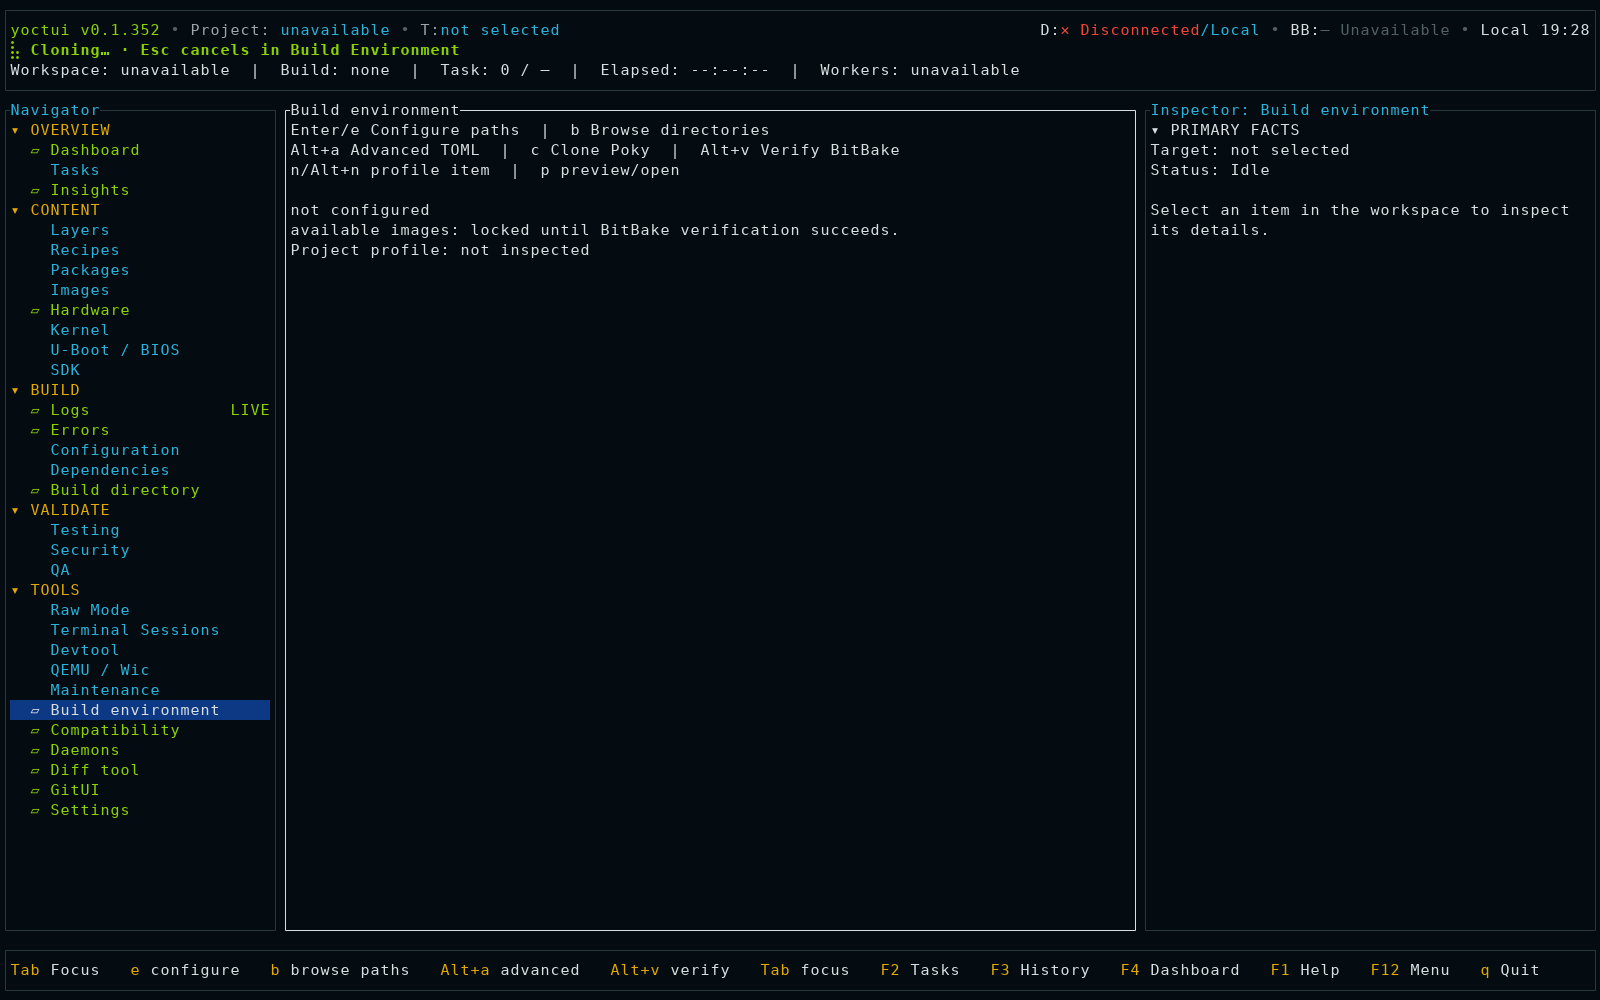
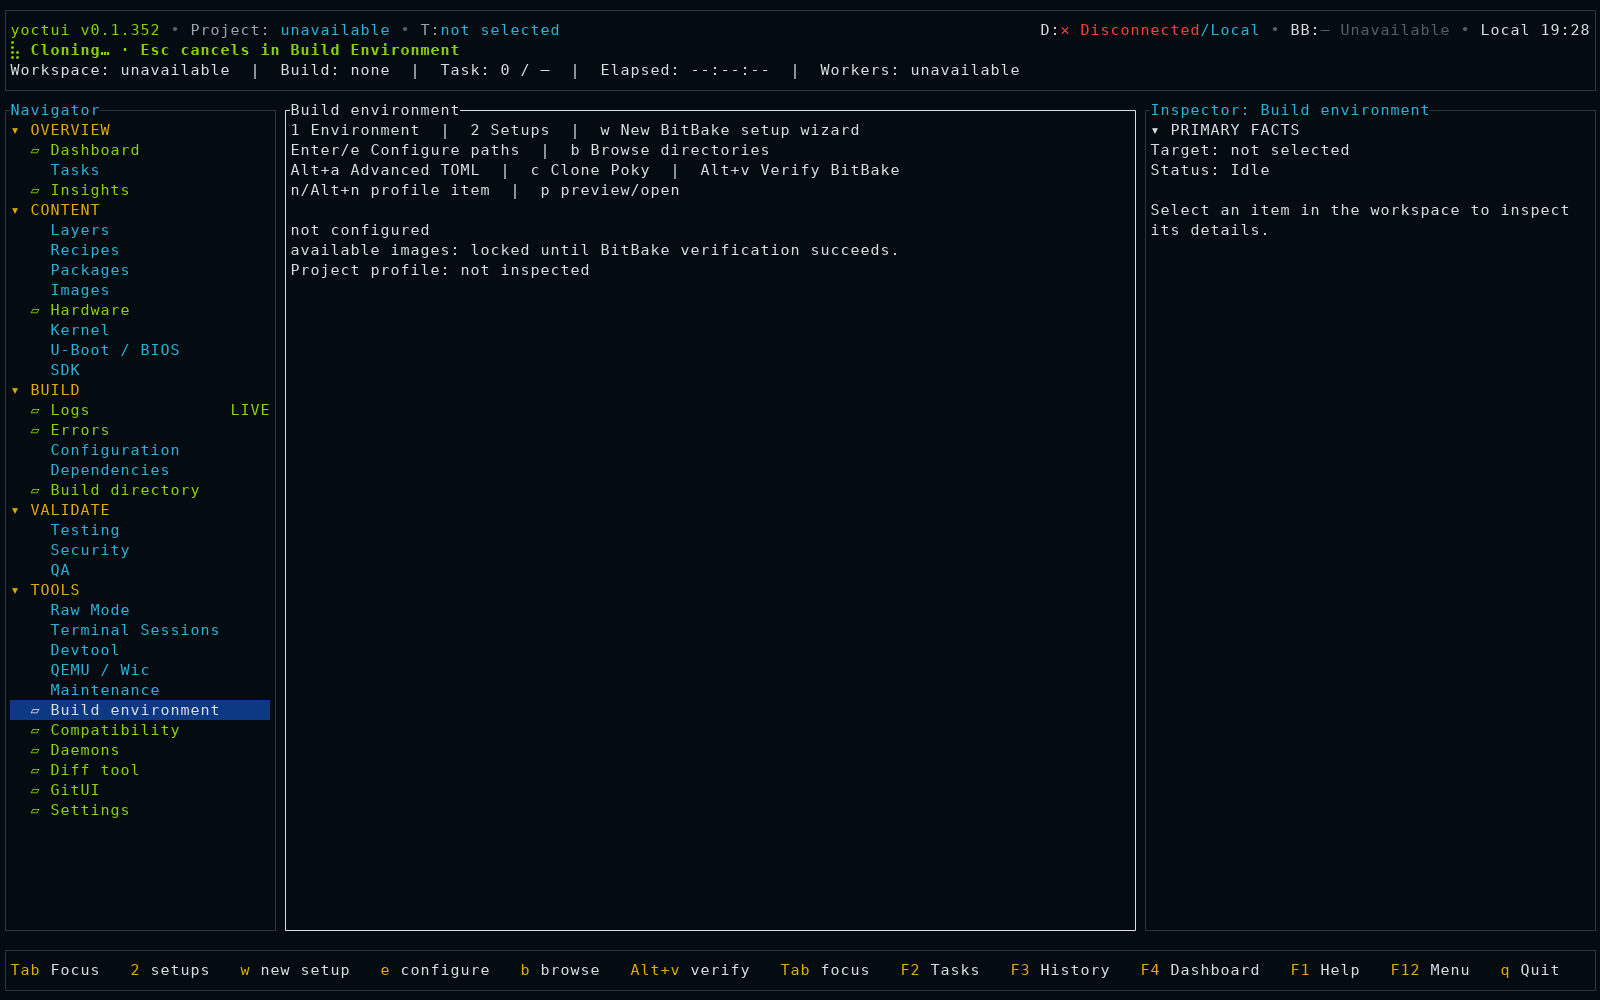
docs: explain modern setup workflow and refresh reviewed UI evidence

diff --git a/crates/yoctui-ui/src/history_render.rs b/crates/yoctui-ui/src/history_render.rs
@@ -76,7 +76,7 @@ pub(crate) fn build_environment_workspace(frame: &mut Frame, app: &App, area: Re
         }
     };
     let text = format!(
-        "Enter/e Configure paths  |  b Browse directories\nAlt+a Advanced TOML  |  c Clone Poky  |  Alt+v Verify BitBake\nn/Alt+n profile item  |  p preview/open\n\n{status}{draft}{images}\n{profile}"
+        "1 Environment  |  2 Setups  |  w New BitBake setup wizard\nEnter/e Configure paths  |  b Browse directories\nAlt+a Advanced TOML  |  c Clone Poky  |  Alt+v Verify BitBake\nn/Alt+n profile item  |  p preview/open\n\n{status}{draft}{images}\n{profile}"
     );
     frame.render_widget(
         Paragraph::new(text)

diff --git a/docs/user-guide.md b/docs/user-guide.md
@@ -51,6 +51,37 @@ is a fallback with fewer capabilities; see [Compatibility](compatibility.md).
 Install the release's [Yocto host requirements](https://docs.yoctoproject.org/brief-yoctoprojectqs/index.html)
 separately; Yoctui does not install BitBake, BSP layers, or target tools.
 
+### Create or import a modern BitBake setup
+
+Open **Build Environment** (also available through **F12 → Workspace**).
+Press `w` for the new-setup wizard. Set the `bitbake-setup` executable, top
+directory and a unique setup name; the template and registry are optional.
+`Enter` edits a field, `Tab` changes fields, and `s` opens the review. Nothing
+runs until you confirm the review with `Enter`.
+
+The official tool runs in an embedded, daemon-owned terminal. Press `o` if it
+offers writer control, then answer its new-top-directory confirmation and
+template/configuration, Machine and Distro choices. A connected local daemon is
+required, but it does not need an initialized BitBake environment. Use only
+trusted templates: setup may download sources and execute setup scripts. The
+tool may create a shared `site.conf`; cancellation can leave partial files.
+Existing destinations are refused, not overwritten or automatically deleted.
+Yoctui does not install the tool, modify its global settings or start an image build.
+Install it separately following the
+[upstream setup guide](https://docs.yoctoproject.org/bitbake/dev/bitbake-user-manual/bitbake-user-manual-environment-setup.html),
+or select `bitbake/bin/bitbake-setup` from a recent checkout.
+
+After setup finishes, `Alt+o` returns to the terminal list. Reopen Build Environment,
+press `2` for Setups and `r` to refresh. `o` chooses a top directory; the selection
+is remembered on normal exit. Discovery is local and bounded to 1024 immediate
+entries / 256 profiles, with no network calls or recursive walk. `Enter` imports
+the selected profile for review; `s` saves it and `Alt+v` explicitly verifies.
+This does not retarget your running daemon: use **Tools → Daemons → c** to review
+switching to the generated `build` directory after its existing jobs and terminals
+have finished. Generated `build/init-build-env` scripts are supported even without
+an executable bit. `1` returns to the existing environment/profile view; legacy
+`oe-init-build-env` and vendor-wrapper profiles remain available.
+
 ## Understand the persistent shell
 
 ### Daemon management
@@ -73,8 +104,8 @@ sessions and disconnects clients when successful. Controls target only the local
 No remote/TCP daemon is supported here; the shown IPs identify the host only.
 
 Configuration uses Tab to switch between the absolute build and source paths;
-the build needs `conf/local.conf` and `conf/bblayers.conf`, and the source needs
-`oe-init-build-env`. Clipboard paste is supported. Confirmation writes a separate
+the build needs `conf/local.conf` and `conf/bblayers.conf`, with either the generated
+`build/init-build-env` or a legacy `oe-init-build-env`. Clipboard paste is supported. Confirmation writes a separate
 `yoctui.service.d/zz-yoctui-manager.conf` drop-in, reloads systemd and restarts the
 daemon. It overrides any existing custom launch command without deleting it.
 Vendor setup wrappers may need their own service configuration instead.

diff --git a/docs/keyboard-shortcuts.md b/docs/keyboard-shortcuts.md
@@ -1,5 +1,10 @@
 # Keyboard shortcuts
 
+Build Environment: `1` environment profile, `2` setup catalogue, `w` new BitBake
+setup wizard. Catalogue: `o` choose top directory, `r` refresh, arrows/Page/Home/End
+select, `Enter` import for review. Wizard: `Tab` field, `Enter` edit/accept,
+`Ctrl+U` clear field, `s` review, `Enter` confirm, `Esc` back/cancel.
+
 The focused dialog/editor/search/terminal owns input before global commands.
 F1, contextual Help, and the footer show the current view's exact bindings.
 
